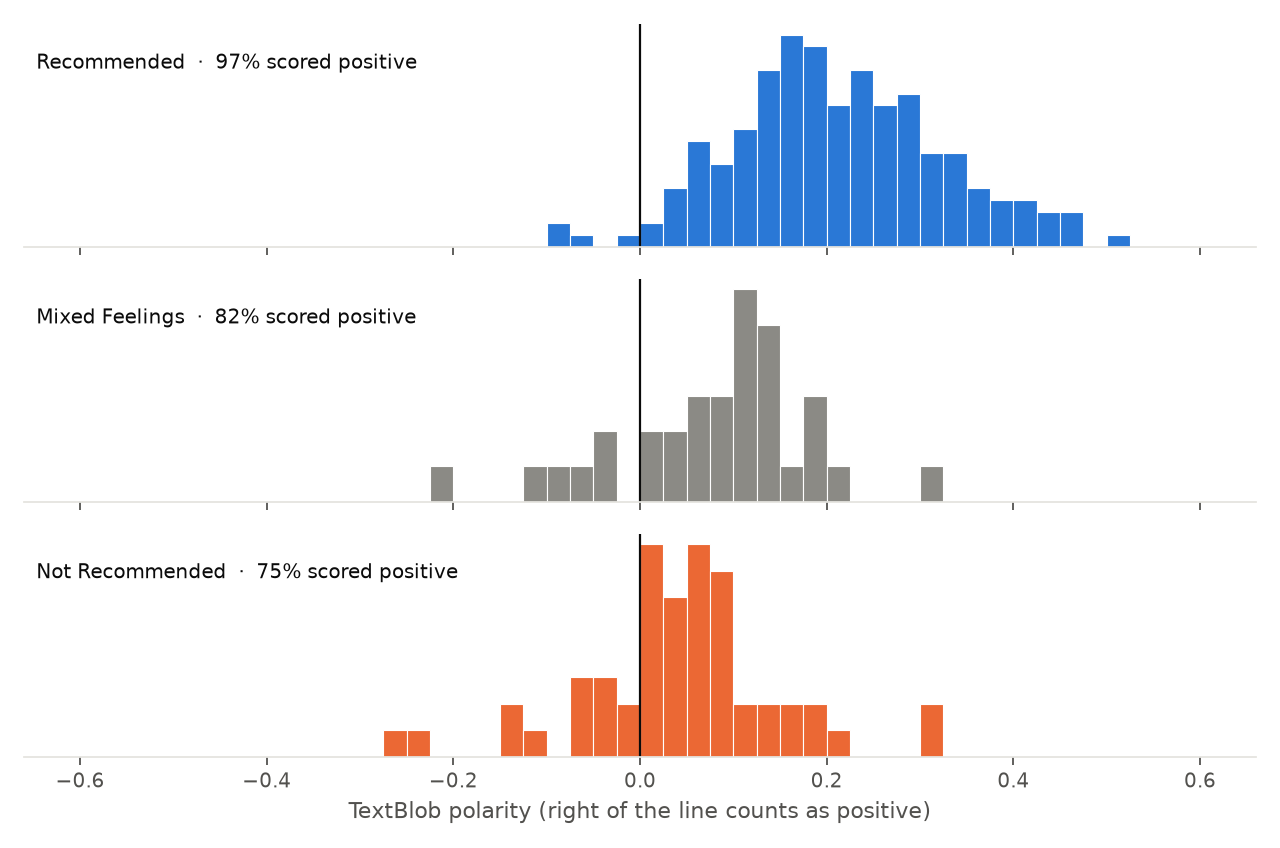
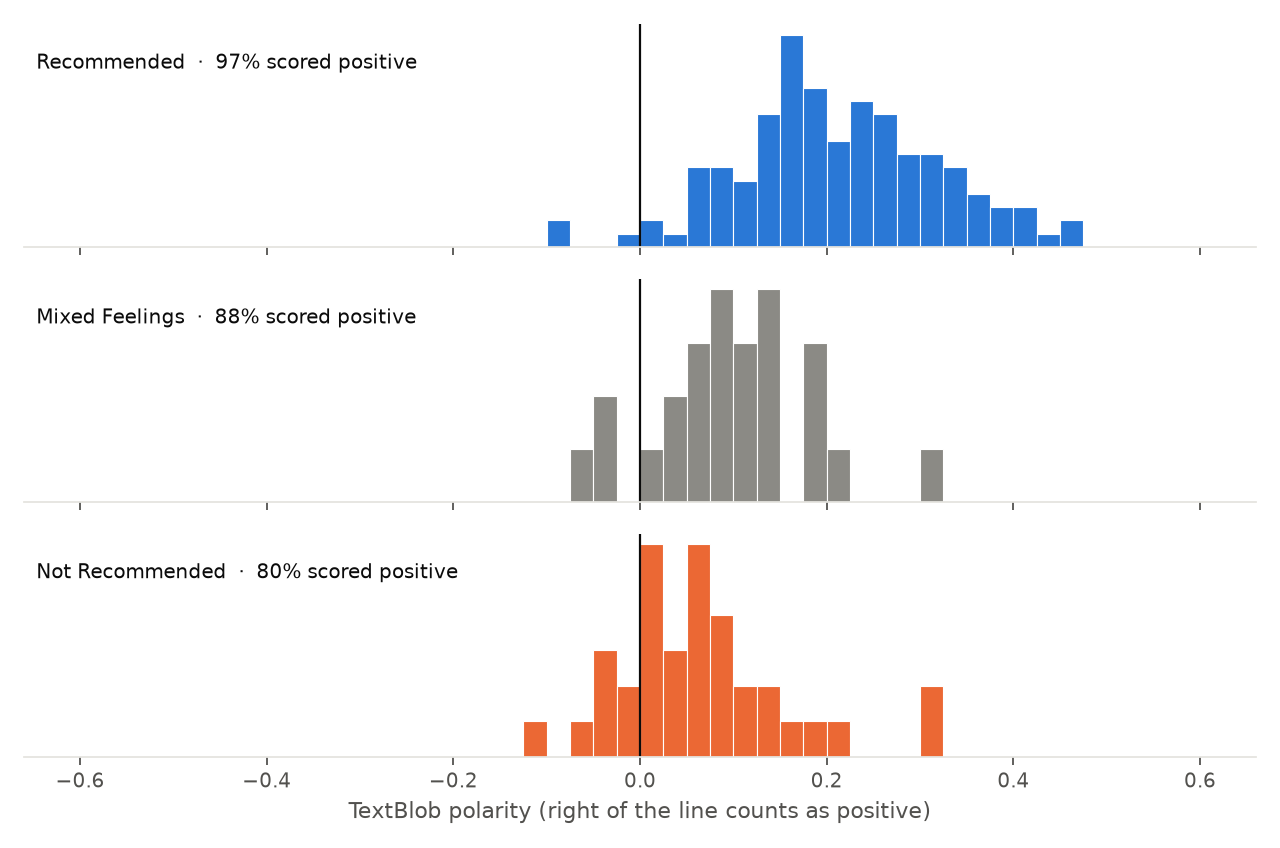
Monthly results: top 10 airing anime

diff --git a/results/results.md b/results/results.md
@@ -1,61 +1,61 @@
 # Results
 
-261 reviews of 9 shows, each tagged by its author as Recommended (175), Mixed Feelings (33), Not Recommended (53).
+183 reviews of 9 shows, each tagged by its author as Recommended (123), Mixed Feelings (25), Not Recommended (35).
 Dropped before analysis: 0 with no verdict tag, 0 empty, 0 duplicates.
 
 ## The anime
 
-The top 10 anime on MyAnimeList's top airing chart on 2026-09-30, and each one's newest 100 reviews.
+The top 10 anime on MyAnimeList's top airing chart on 2026-10-01, and each one's newest 100 reviews.
 
 | Chart rank | Anime | MAL score | Reviews |
 | ---: | --- | ---: | ---: |
-| 1 | Re:Zero kara Hajimeru Isekai Seikatsu 4th Season | 9.11 | 83 |
-| 2 | Steel Ball Run: JoJo no Kimyou na Bouken | 9.07 | 2 |
-| 3 | Bleach: Sennen Kessen-hen - Kashin-tan | 9.03 | 31 |
-| 4 | One Piece | 8.72 | 100 |
-| 5 | Chiikawa | 8.62 | 8 |
+| 1 | Steel Ball Run: JoJo no Kimyou na Bouken | 9.06 | 3 |
+| 2 | Bleach: Sennen Kessen-hen - Kashin-tan | 9.02 | 31 |
+| 3 | One Piece | 8.72 | 100 |
+| 4 | Chiikawa | 8.62 | 8 |
+| 5 | Shiguang Dailiren III | 8.52 | 2 |
 | 6 | Seihantai na Kimi to Boku 2nd Season | 8.51 | 18 |
-| 7 | Shiguang Dailiren III | 8.51 | 2 |
-| 8 | Xian Ni | 8.49 | 13 |
-| 9 | Tian Guan Cifu Short Films | 8.47 | 0 |
-| 10 | Doupo Cangqiong: Nian Fan | 8.39 | 4 |
+| 7 | Xian Ni | 8.49 | 13 |
+| 8 | Tian Guan Cifu Short Films | 8.47 | 0 |
+| 9 | Doupo Cangqiong: Nian Fan | 8.39 | 4 |
+| 10 | Tunshi Xingkong 4th Season | 8.33 | 4 |
 
 ## Latest reviews vs the MyAnimeList score
 
 The score MyAnimeList shows is the average of every user's rating. Each review also carries its author's 1–10 rating, so the latest reviews can be checked against it.
 
-Across the 9 shows with rated reviews, the latest reviews average **0.79 points below** the site score, and are **0.99 points away** on average. 3 of 9 land within half a point.
+Across the 9 shows with rated reviews, the latest reviews average **0.71 points below** the site score, and are **0.85 points away** on average. 4 of 9 land within half a point.
 
 | Chart rank | Anime | MAL score | Latest reviews | Their average rating | Gap | Recommended | Reviews dated |
 | ---: | --- | ---: | ---: | ---: | ---: | ---: | --- |
-| 1 | Re:Zero kara Hajimeru Isekai Seikatsu 4th Season | 9.11 | 83 | 7.81 | -1.30 | 66% | 2026-04-22 to 2026-09-25 |
-| 2 | Steel Ball Run: JoJo no Kimyou na Bouken | 9.07 | 2 | 10.00 | +0.93 | 100% | 2026-09-28 to 2026-09-28 |
-| 3 | Bleach: Sennen Kessen-hen - Kashin-tan | 9.03 | 31 | 7.71 | -1.32 | 71% | 2026-08-12 to 2026-09-23 |
-| 4 | One Piece | 8.72 | 100 | 7.62 | -1.10 | 60% | 2025-04-02 to 2026-09-12 |
-| 5 | Chiikawa | 8.62 | 8 | 8.38 | -0.24 | 100% | 2023-10-29 to 2026-09-19 |
+| 1 | Steel Ball Run: JoJo no Kimyou na Bouken | 9.06 | 3 | 9.67 | +0.61 | 100% | 2026-09-28 to 2026-09-30 |
+| 2 | Bleach: Sennen Kessen-hen - Kashin-tan | 9.02 | 31 | 7.71 | -1.31 | 71% | 2026-08-12 to 2026-09-23 |
+| 3 | One Piece | 8.72 | 100 | 7.62 | -1.10 | 60% | 2025-04-02 to 2026-09-12 |
+| 4 | Chiikawa | 8.62 | 8 | 8.38 | -0.24 | 100% | 2023-10-29 to 2026-09-19 |
+| 5 | Shiguang Dailiren III | 8.52 | 2 | 6.50 | -2.02 | 50% | 2026-08-31 to 2026-09-27 |
 | 6 | Seihantai na Kimi to Boku 2nd Season | 8.51 | 18 | 8.44 | -0.07 | 89% | 2026-07-21 to 2026-09-29 |
-| 7 | Shiguang Dailiren III | 8.51 | 2 | 6.50 | -2.01 | 50% | 2026-08-31 to 2026-09-27 |
-| 8 | Xian Ni | 8.49 | 13 | 6.92 | -1.57 | 62% | 2024-06-15 to 2026-09-14 |
-| 9 | Tian Guan Cifu Short Films | 8.47 | 0 | – | – | – | no reviews |
-| 10 | Doupo Cangqiong: Nian Fan | 8.39 | 4 | 8.00 | -0.39 | 75% | 2023-08-03 to 2025-05-11 |
+| 7 | Xian Ni | 8.49 | 13 | 6.92 | -1.57 | 62% | 2024-06-15 to 2026-09-14 |
+| 8 | Tian Guan Cifu Short Films | 8.47 | 0 | – | – | – | no reviews |
+| 9 | Doupo Cangqiong: Nian Fan | 8.39 | 4 | 8.00 | -0.39 | 75% | 2023-08-03 to 2025-05-11 |
+| 10 | Tunshi Xingkong 4th Season | 8.33 | 4 | 8.00 | -0.33 | 50% | 2024-04-06 to 2026-04-12 |
 
 Reviews are a small, self-selected group: people who write a review often feel strongly, and a show's latest reviews reflect its latest episodes, while the site score covers everyone who rated it.
 
 ## What TextBlob says
 
-TextBlob calls 90.8% of reviews positive. The reviewers themselves recommend 67.0% of the shows they review, and TextBlob scores 75% of **Not Recommended** reviews as positive.
+TextBlob calls 92.3% of reviews positive. The reviewers themselves recommend 67.2% of the shows they review, and TextBlob scores 80% of **Not Recommended** reviews as positive.
 
 ![TextBlob polarity by verdict](figures/textblob_by_verdict.png)
 
 ## How well each method matches the verdict
 
-Recommended vs Not Recommended: 228 reviews (175 vs 53). Five-fold cross-validation split by show, so every review is scored by a model that never saw that show. Balanced accuracy averages the hit rate on each verdict, so always answering "Recommended" scores 50%.
+Recommended vs Not Recommended: 158 reviews (123 vs 35). Five-fold cross-validation split by show, so every review is scored by a model that never saw that show. Balanced accuracy averages the hit rate on each verdict, so always answering "Recommended" scores 50%.
 
 | Method | ROC AUC (95% CI) | Balanced accuracy, usual cut-off | Balanced accuracy, tuned cut-off | Not Recommended caught |
 | --- | ---: | ---: | ---: | ---: |
-| TextBlob | 0.87 (0.83–0.94) | 61% | 80% | 25% |
-| VADER | 0.81 (0.72–0.89) | 71% | 69% | 51% |
-| Trained on verdicts | 0.86 (0.77–0.93) | 69% | 82% | 42% |
+| TextBlob | 0.85 (0.83–1.00) | 58% | 78% | 20% |
+| VADER | 0.84 (0.76–0.99) | 69% | 73% | 43% |
+| Trained on verdicts | 0.78 (0.66–0.99) | 68% | 68% | 37% |
 
 Best at separating the verdicts: **TextBlob**.
 
@@ -63,35 +63,23 @@ Best at separating the verdicts: **TextBlob**.
 
 ## Three verdicts
 
-Trained on all three tags, the model reaches a macro F1 of 0.46 and balanced accuracy of 47%. Rows are the reviewer's tag, columns the model's guess:
+Trained on all three tags, the model reaches a macro F1 of 0.43 and balanced accuracy of 44%. Rows are the reviewer's tag, columns the model's guess:
 
 | | Recommended | Mixed Feelings | Not Recommended |
 | --- | ---: | ---: | ---: |
-| **Recommended** | 171 | 0 | 4 |
-| **Mixed Feelings** | 27 | 0 | 6 |
-| **Not Recommended** | 30 | 0 | 23 |
-
-## By show
-
-Shows with at least 20 reviews (3).
-
-![Shows](figures/titles.png)
-
-| Show | Reviews | Recommended (95% CI) | Not Recommended | TextBlob positive |
-| --- | ---: | ---: | ---: | ---: |
-| Bleach: Sennen Kessen-hen - Kashin-tan | 31 | 71% (53%–84%) | 23% | 94% |
-| Re:Zero kara Hajimeru Isekai Seikatsu 4th Season | 83 | 66% (56%–76%) | 23% | 88% |
-| One Piece | 100 | 60% (50%–69%) | 24% | 91% |
+| **Recommended** | 120 | 0 | 3 |
+| **Mixed Feelings** | 22 | 0 | 3 |
+| **Not Recommended** | 23 | 0 | 12 |
 
 ## What the trained model listens to
 
 Words and phrases with the largest weights toward each verdict:
 
-- **Recommended:** best, the best, 10 10, amazing, cour, you, peak, the animation, perfect, very, such, animation, love, especially, world
-- **Not Recommended:** plot, same, the worst, worst, bad, the same, the plot, minutes, over, fight, out of, boring, no, barely, rather
+- **Recommended:** best, the best, 10 10, cour, feel, romance, donghua, really, chiikawa, world, journey, we, cute, watch, very
+- **Not Recommended:** fight, plot, minutes, out of, the worst, same, worst, over, then, 20, bad, someone, boring, to make, the same
 
 ## Caveats
 
-- Reviews of the top airing chart on MyAnimeList, downloaded 2026-09-30. Reviewers who write reviews are not all viewers, so these rates describe reviews, not audiences.
+- Reviews of the top airing chart on MyAnimeList, downloaded 2026-10-01. Reviewers who write reviews are not all viewers, so these rates describe reviews, not audiences.
 - A tag is a single summary of a long, often mixed review; some disagreement with any method is expected.
 - Scores come from English text only; reviews in other languages were left as they are.
